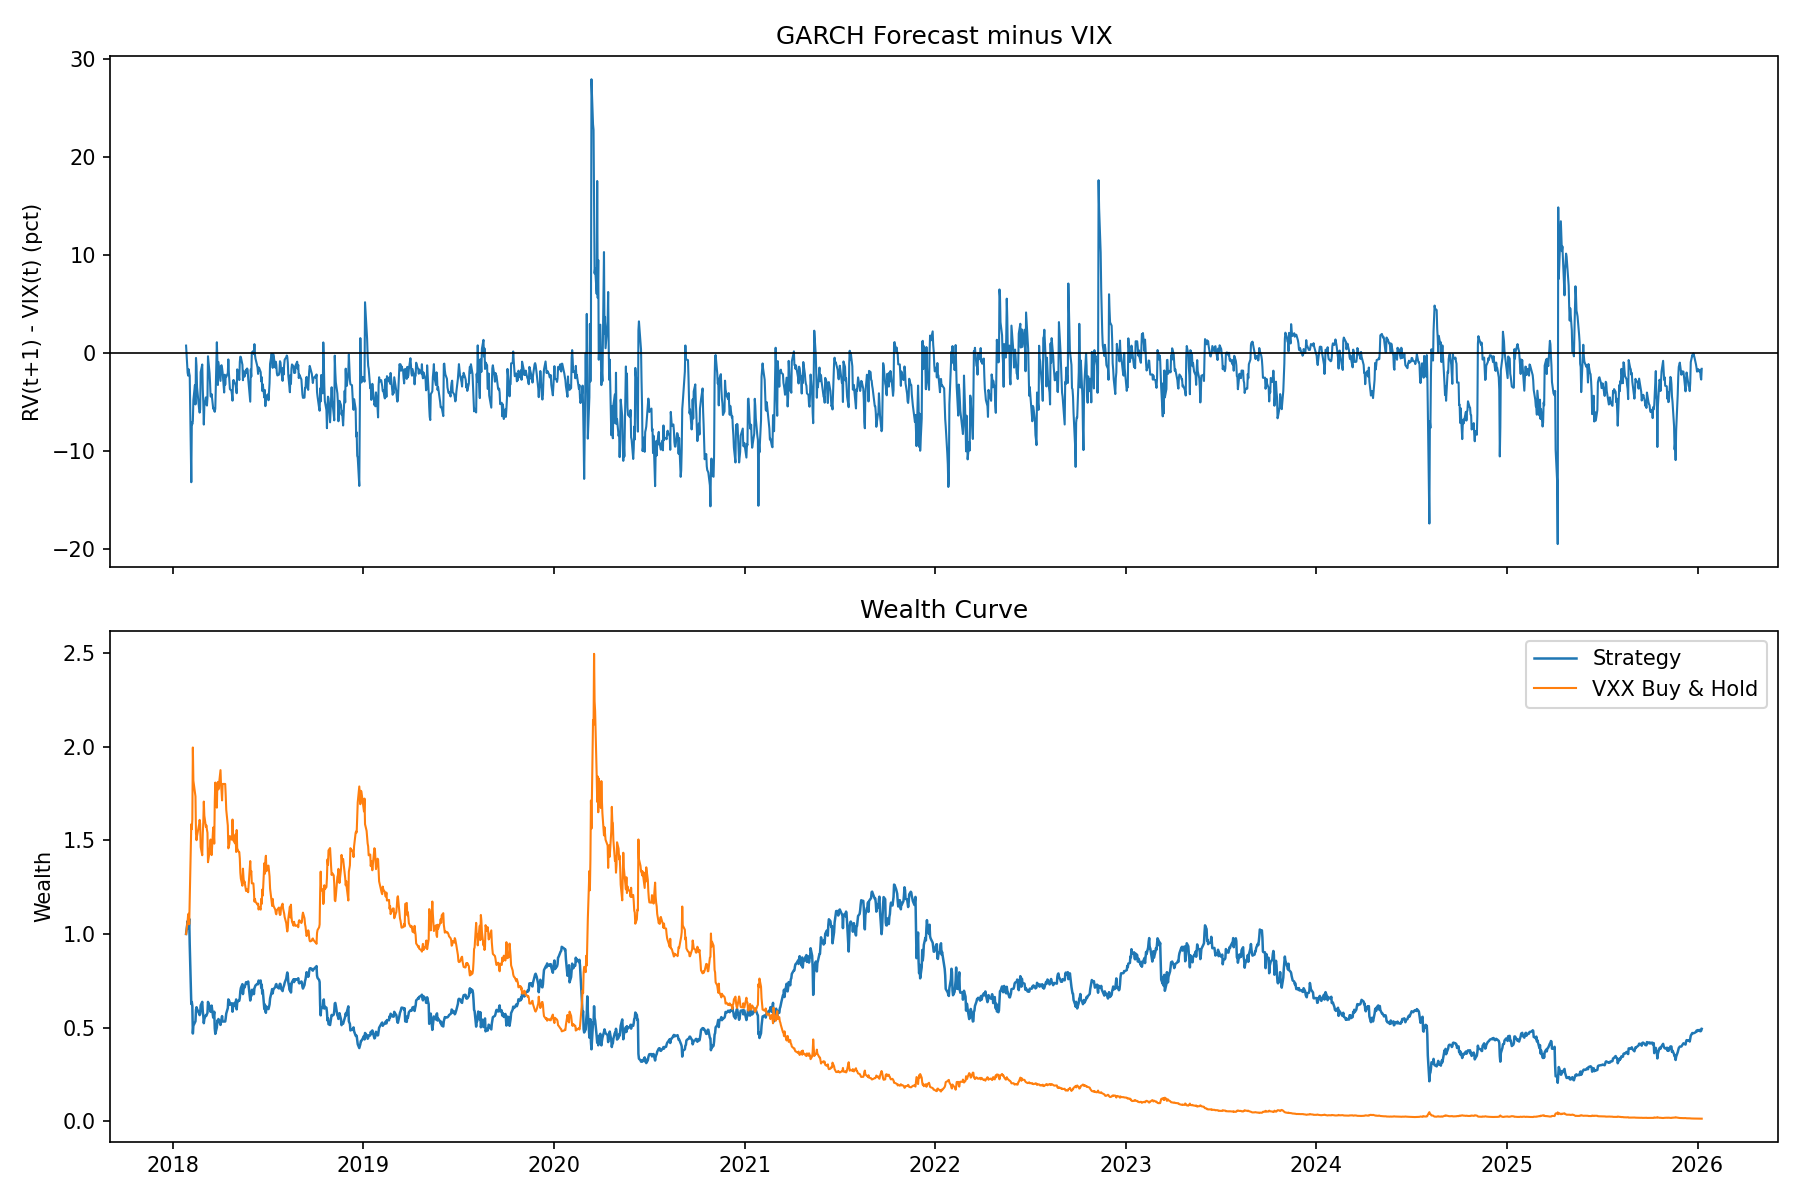
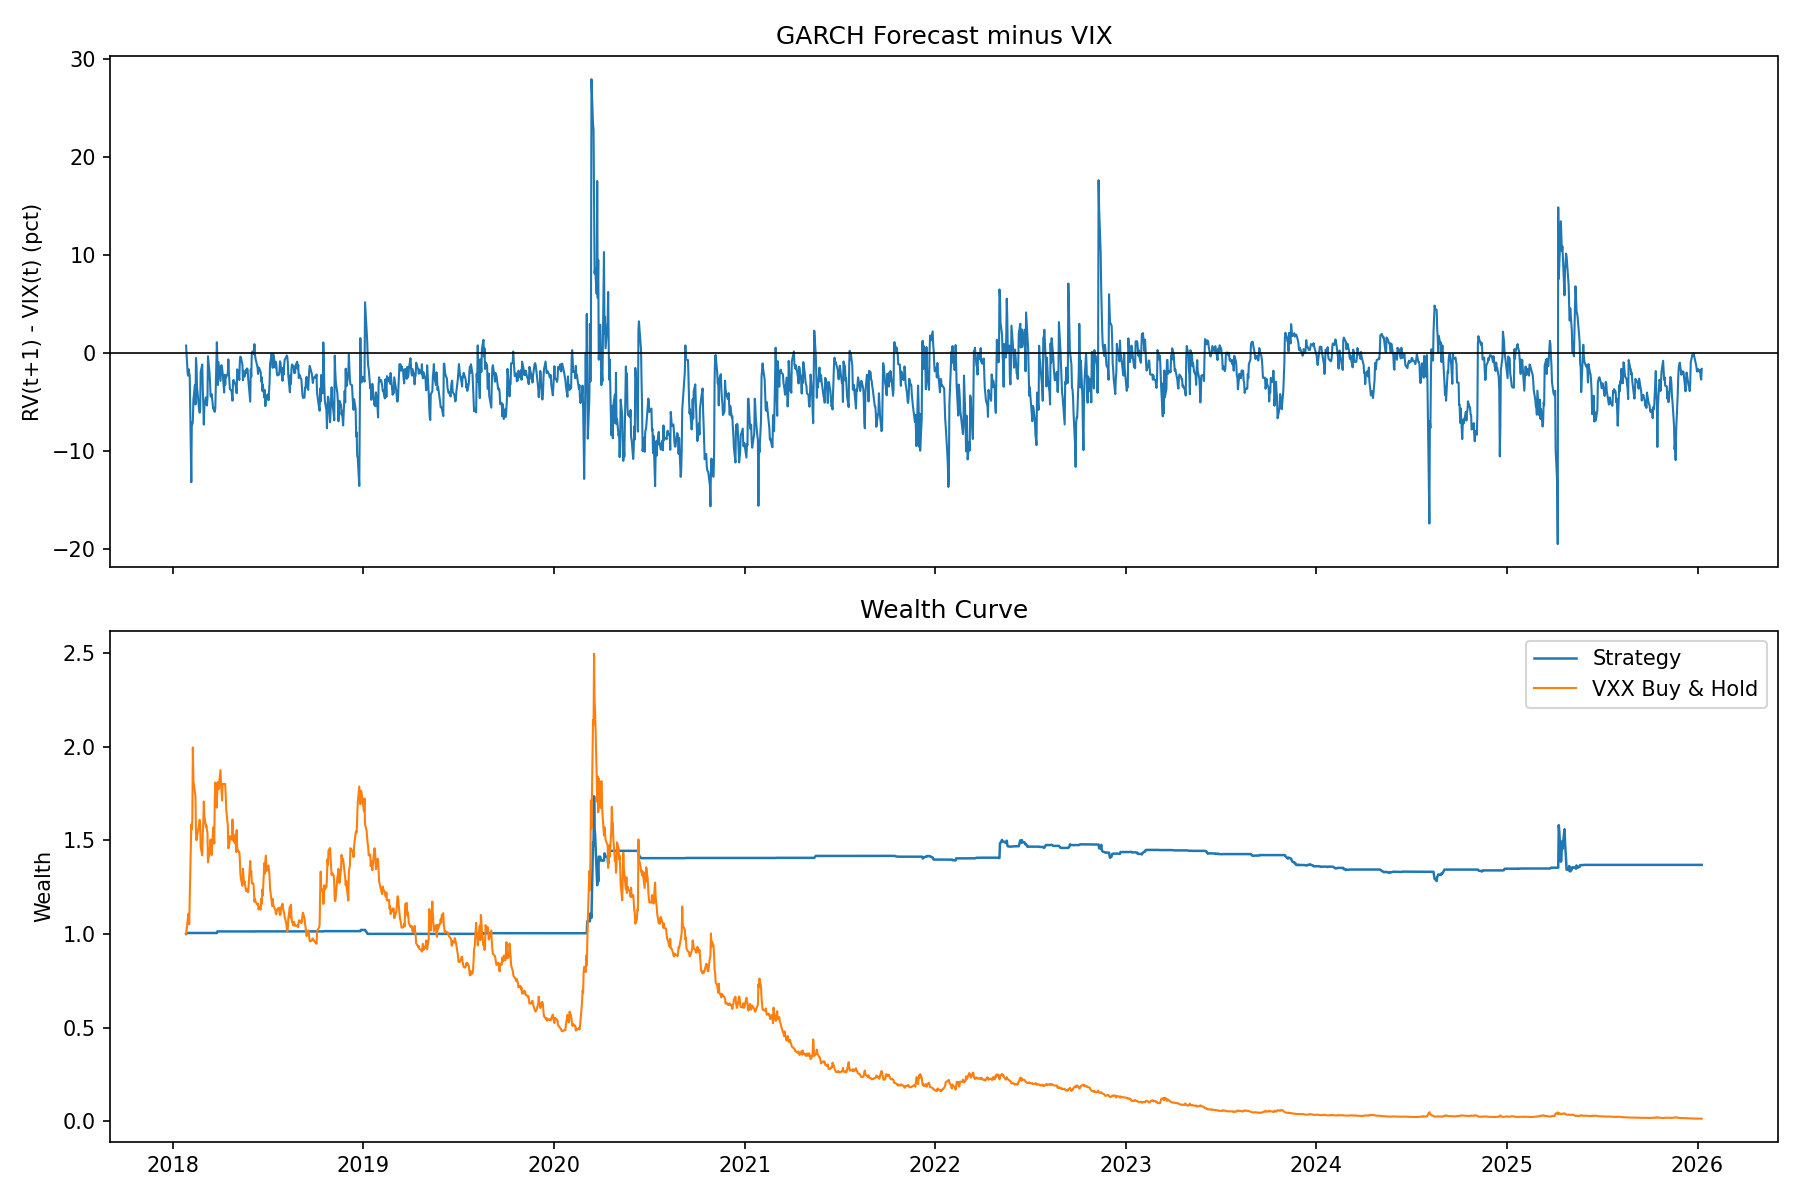
Refine GARCH vs VIX strategy description and update position sizing logic

diff --git a/volatility_garch_vxx_backtest.py b/volatility_garch_vxx_backtest.py
@@ -1,9 +1,10 @@
 """Backtest a GARCH vs VIX signal for trading VXX.
 
-Strategy from the slides:
+Strategy from the slides (long-only variant):
 * RV(t+1) is the GARCH-predicted realized volatility for the next period.
 * IV(t) is the current implied volatility (VIX).
-* If RV(t+1) - VIX(t) > 0, go long VXX; otherwise short VXX.
+* If RV(t+1) - VIX(t) > 0, go long VXX; otherwise hold cash.
+* Position size scales with signal strength, capped at full exposure.
 
 This implementation uses a rolling GARCH(1,1) fit on SPX log returns to
 forecast the next 21 trading days of volatility, compares it to VIX, and
@@ -36,6 +37,7 @@ ESTIMATION_WINDOW = 756  # ~3 years of daily data
 FORECAST_HORIZON = 21  # ~1 month
 UPDATE_FREQUENCY = 21  # re-estimate monthly
 TRANSACTION_COST = 0.0005  # 5 bps per unit traded
+SIGNAL_SCALE = 10.0  # signal points for full exposure
 OUTPUT_DIR = Path(__file__).resolve().parent / "plots"
 OUTPUT_DIR.mkdir(parents=True, exist_ok=True)
 
@@ -313,7 +315,7 @@ def run_backtest() -> BacktestResult:
     aligned = aligned.dropna()
 
     signal = aligned["predicted_vol"] - aligned["vix"]
-    position = pd.Series(np.where(signal > 0.0, 1.0, -1.0), index=signal.index)
+    position = (signal / SIGNAL_SCALE).clip(lower=0.0, upper=1.0)
     position = position.shift(1).fillna(0.0)
     turnover = position.diff().abs().fillna(0.0)
     strategy_returns = position * aligned["vxx_returns"] - turnover * TRANSACTION_COST
